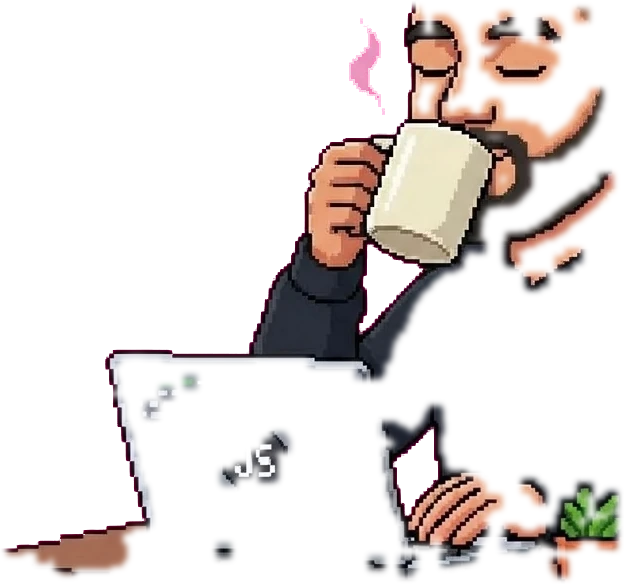
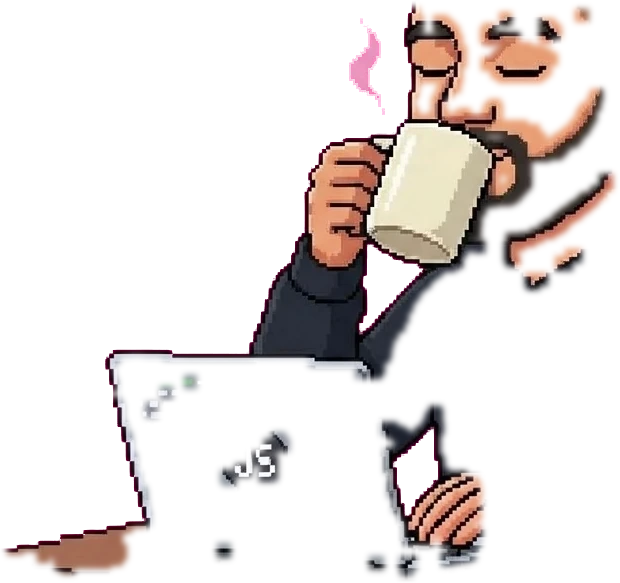
Café con la planta crecida: las piezas de la taza ya no llevan la planta pequeña (#47)
taza-cerca y taza-boca incluían los píxeles de la planta sin crecer y los pintaban encima de la crecida.
Se excluye esa zona al generarlas.

Claude-Session: https://claude.ai/code/session_01QwGSbvem29DWb2e6E1Uaf5

diff --git a/scripts/build-avatar.py b/scripts/build-avatar.py
@@ -57,8 +57,9 @@ PIECES = {
     "saludo-2": ((200, 330, 540, 640), False),
     # Café: la taza sale de la mesa (`MUG`: se borra de la escena) y sube a la boca. Las de la cara van con la cabeza.
     "taza-sube": ((90, 300, 520, 830), False, MUG),
-    "taza-cerca": ((90, 260, 700, 830), True, MUG),
-    "taza-boca": ((90, 260, 700, 830), True, MUG),
+    # Sin la zona de la planta (560-710, 700-840): si no, estas piezas llevan la planta pequeña y tapan la crecida.
+    "taza-cerca": ((90, 260, 700, 830), True, MUG, (560, 700, 710, 840)),
+    "taza-boca": ((90, 260, 700, 830), True, MUG, (560, 700, 710, 840)),
     "ojos-felices": ((470, 240, 650, 345), True),
     "boca-ahh": ((480, 345, 650, 480), True),
     # Riego: la regadera sobre la planta y la planta ya crecida, con guindillas.
